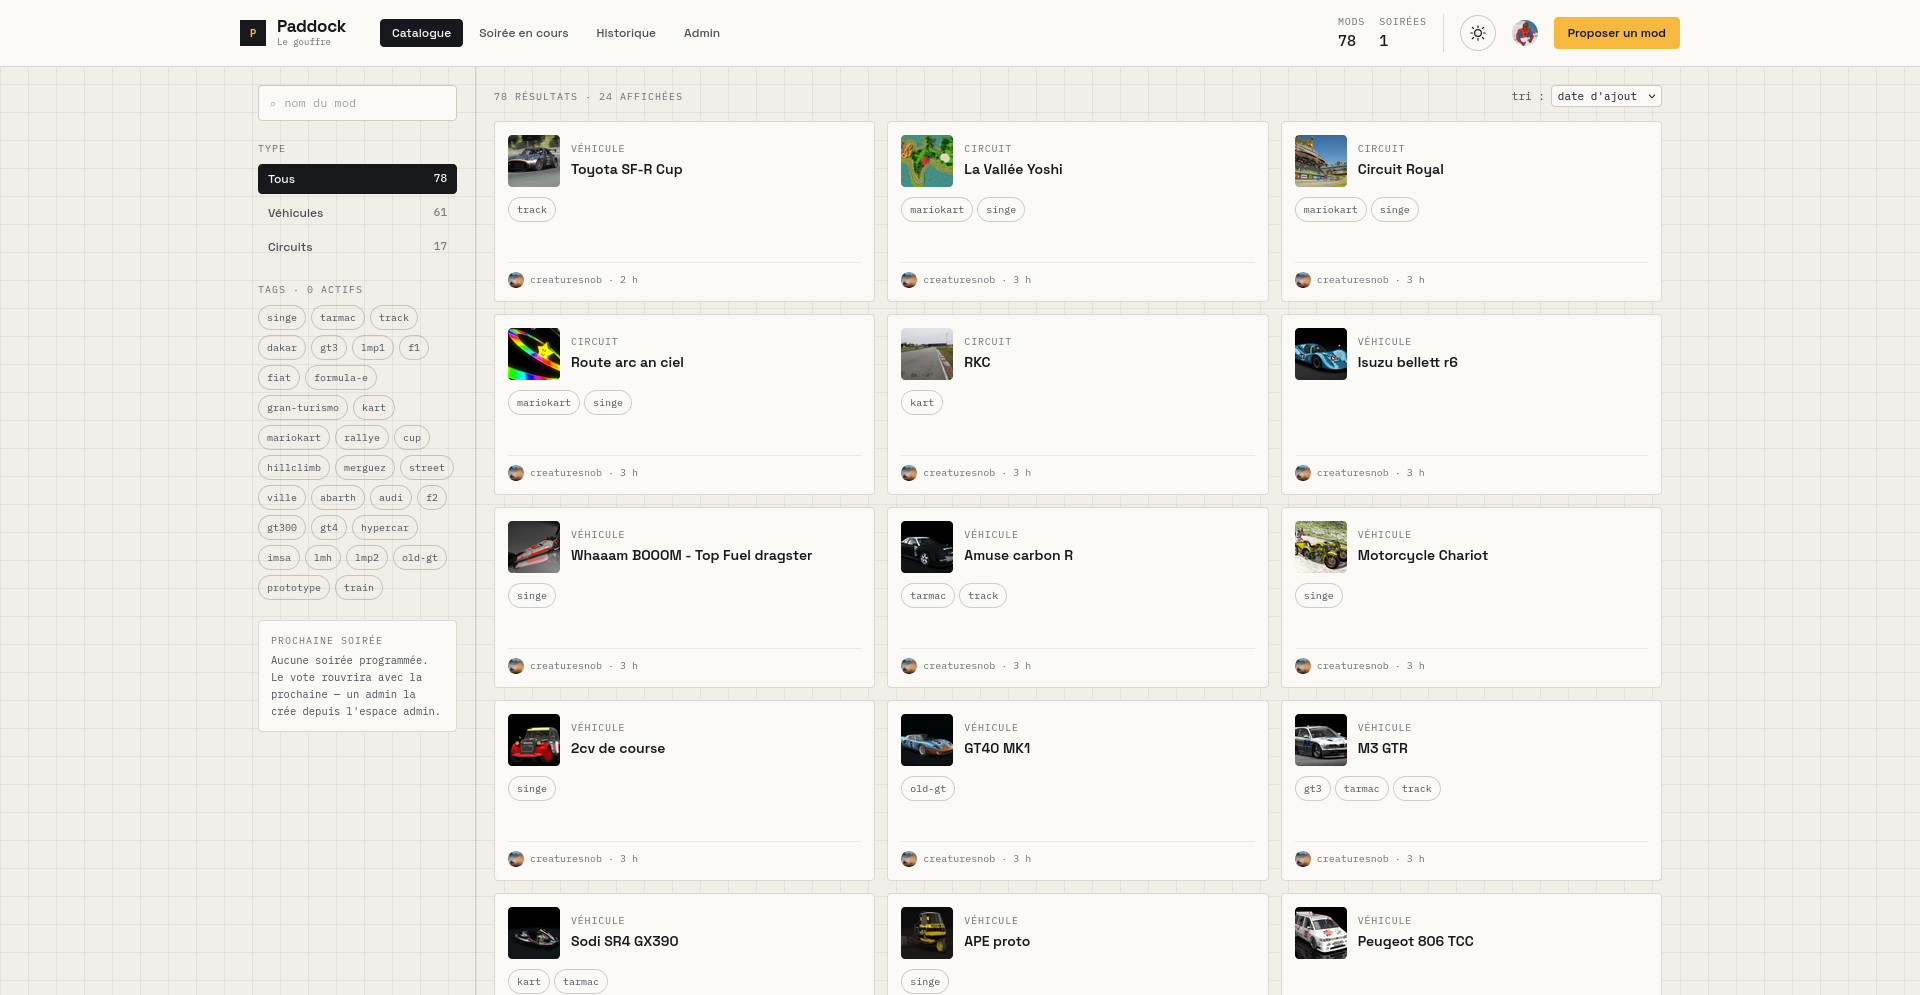
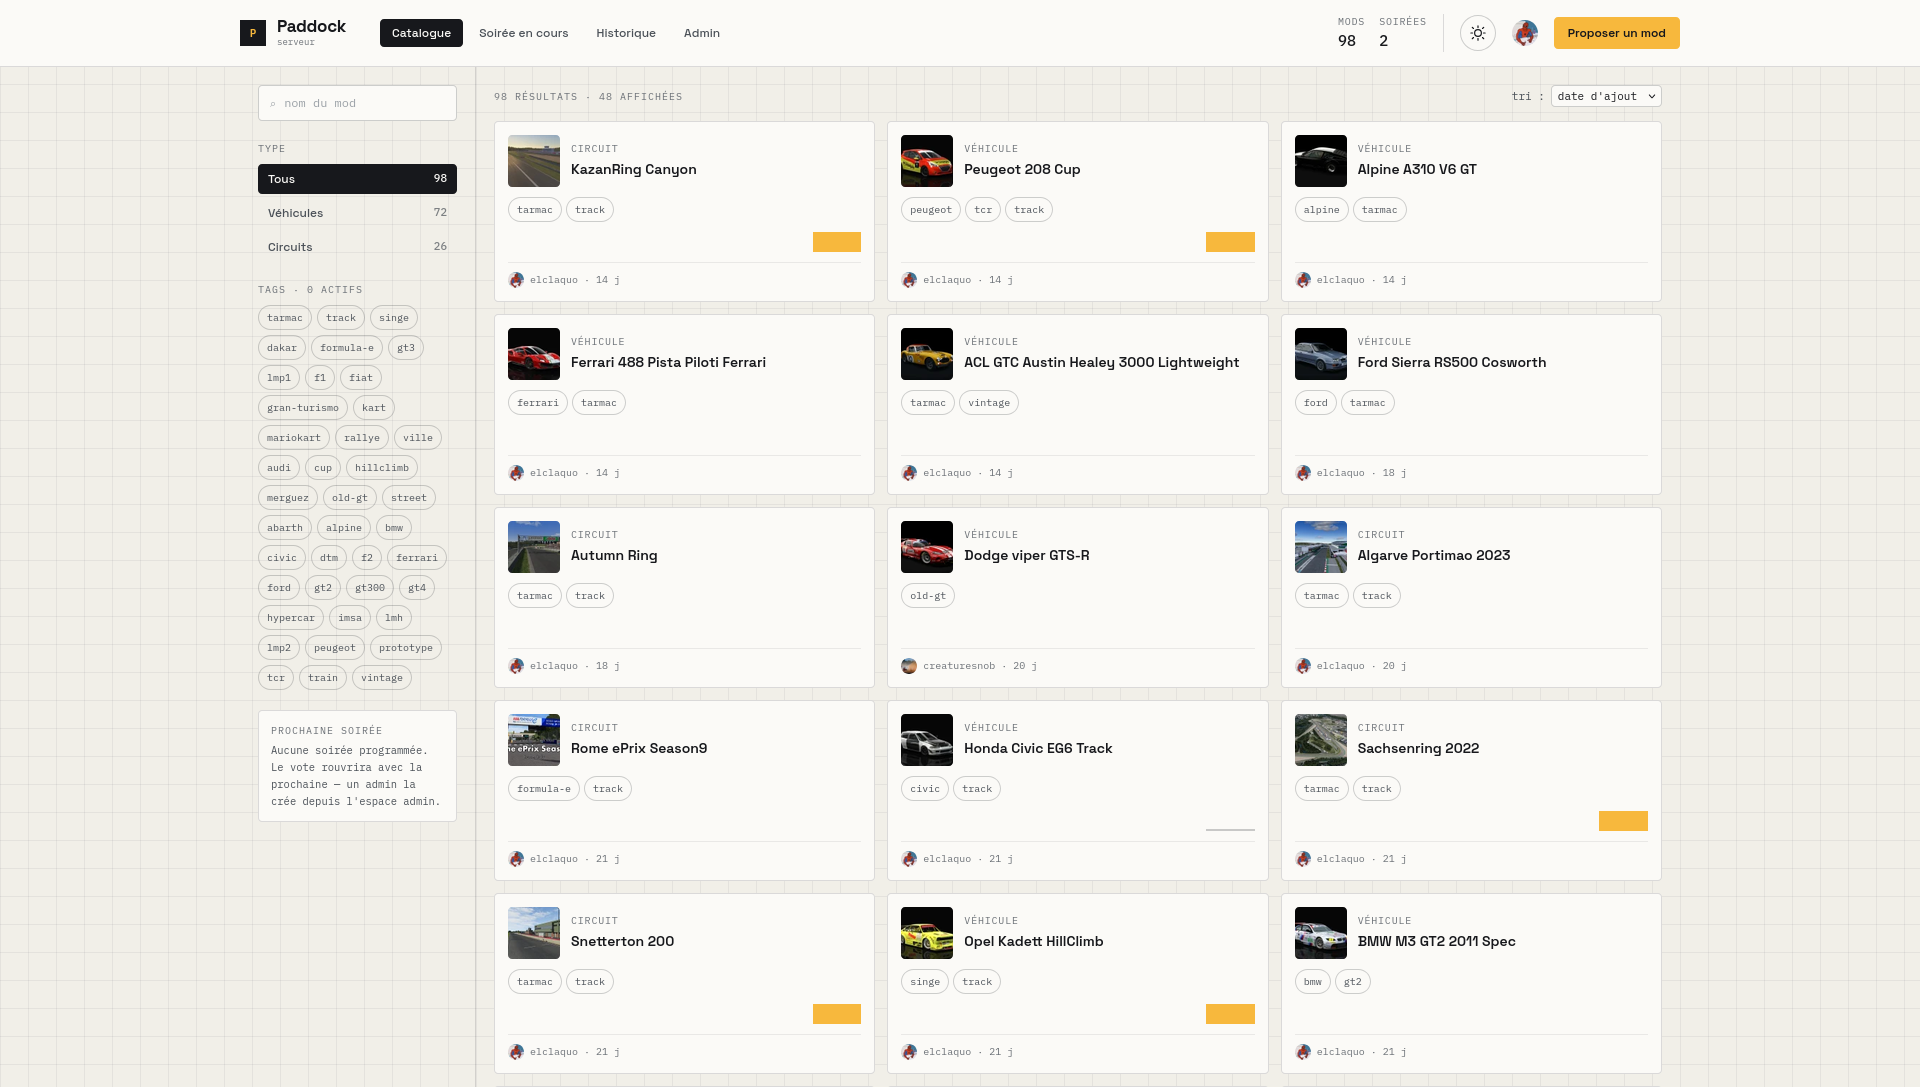
feat : modif article acpaddock

diff --git a/app/layout.tsx b/app/layout.tsx
@@ -8,7 +8,7 @@ import { SpeedInsights } from "@vercel/speed-insights/next";
 export const metadata: Metadata = {
 	metadataBase: new URL("https://ldasilveira.fr"),
 	title: {
-		default: "Lucas Da Silveira — Portfolio | Étudiant en informatique",
+		default: "Lucas Da Silveira - Portfolio | Étudiant en informatique",
 		template: "%s | Lucas Da Silveira",
 	},
 	description:
@@ -45,9 +45,9 @@ export const metadata: Metadata = {
 		canonical: "/",
 	},
 	openGraph: {
-		title: "Lucas Da Silveira — Portfolio",
+		title: "Lucas Da Silveira - Portfolio",
 		description:
-			"Moi c'est Lucas, étudiant en informatique passionné de développement web. Découvrez mes projets, mon parcours et comment me contacter.",
+			"Moi c'est Lucas, étudiant en informatique passionné de développement. Découvrez mes projets, mon parcours et comment me contacter.",
 		url: "https://ldasilveira.fr",
 		siteName: "Lucas Da Silveira",
 		images: [
@@ -55,7 +55,7 @@ export const metadata: Metadata = {
 				url: "/og.png",
 				width: 1920,
 				height: 1080,
-				alt: "Lucas Da Silveira — Portfolio",
+				alt: "Lucas Da Silveira _ Portfolio",
 			},
 		],
 		locale: "fr_FR",
@@ -63,9 +63,9 @@ export const metadata: Metadata = {
 	},
 	twitter: {
 		card: "summary_large_image",
-		title: "Lucas Da Silveira — Portfolio",
+		title: "Lucas Da Silveira - Portfolio",
 		description:
-			"Moi c'est Lucas, étudiant en informatique passionné de développement web. Venez découvrir mes projets !",
+			"Moi c'est Lucas, étudiant en informatique passionné de développement. Venez découvrir mes projets !",
 		images: ["/og.png"],
 	},
 	robots: {

diff --git a/app/projects/[slug]/header.tsx b/app/projects/[slug]/header.tsx
@@ -43,7 +43,7 @@ export const Header: React.FC<Props> = ({ project, views }) => {
 	return (
 		<header
 			ref={ref}
-			className="relative isolate overflow-hidden bg-gradient-to-tl from-black via-zinc-900 to-black"
+			className="relative overflow-hidden bg-gradient-to-tl from-black via-zinc-900 to-black"
 		>
 			<div
 				className={`fixed inset-x-0 top-0 z-50 backdrop-blur lg:backdrop-blur-none duration-200 border-b lg:bg-transparent ${

diff --git a/app/components/mdx.tsx b/app/components/mdx.tsx
@@ -146,7 +146,7 @@ const components = {
 	code: ({ className, ...props }) => (
 		<code
 			className={clsx(
-				"relative rounded border bg-zinc-300 bg-opacity-25 py-[0.2rem] px-[0.3rem] font-mono text-sm text-zinc-600",
+				"rounded border bg-zinc-300 bg-opacity-25 py-[0.2rem] px-[0.3rem] font-mono text-sm text-zinc-600",
 				className,
 			)}
 			{...props}
